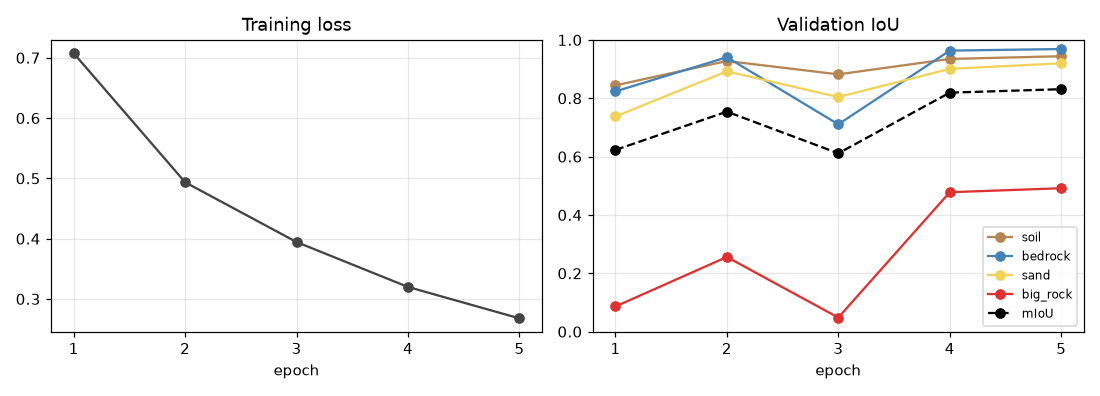
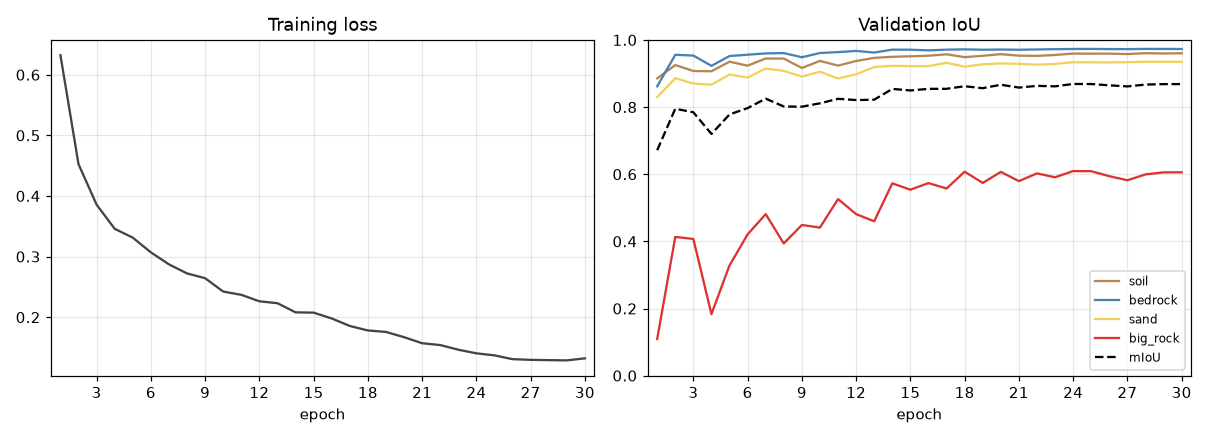
Loss ablation and 30-epoch final model: README results, curves, predictions.

diff --git a/scripts/plot_training.py b/scripts/plot_training.py
@@ -10,6 +10,7 @@ import matplotlib
 
 matplotlib.use("Agg")  # draw to a file, no window needed
 import matplotlib.pyplot as plt
+from matplotlib.ticker import MaxNLocator
 
 # same colours as visualize.py
 COLORS = {"soil": "#b58654", "bedrock": "#4682b4", "sand": "#f0d25a", "big_rock": "#dc3232"}
@@ -25,7 +26,7 @@ def main():
         rows = list(csv.DictReader(f))
     epochs = [int(r["epoch"]) for r in rows]
 
-    fig, (ax_loss, ax_iou) = plt.subplots(1, 2, figsize=(10, 3.6))
+    fig, (ax_loss, ax_iou) = plt.subplots(1, 2, figsize=(11, 4))
 
     # left: the training loss should go down
     ax_loss.plot(epochs, [float(r["train_loss"]) for r in rows], marker="o", color="#444444")
@@ -39,11 +40,16 @@ def main():
     ax_iou.set_title("Validation IoU")
     ax_iou.set_xlabel("epoch")
     ax_iou.set_ylim(0, 1)
-    ax_iou.legend(loc="lower right", fontsize=8)
 
+    # markers only on short runs; at most ~10 integer ticks so long runs stay readable
+    marker_size = 4 if len(epochs) <= 10 else 0
     for ax in (ax_loss, ax_iou):
-        ax.set_xticks(epochs)
+        for line in ax.get_lines():
+            line.set_markersize(marker_size)
+        ax.xaxis.set_major_locator(MaxNLocator(nbins=10, integer=True))
+        ax.set_xlim(min(epochs) - 0.5, max(epochs) + 0.5)
         ax.grid(alpha=0.3)
+    ax_iou.legend(loc="lower right", fontsize=8)  # after the marker change, so it matches the lines
 
     out = Path(args.out)
     out.parent.mkdir(parents=True, exist_ok=True)

diff --git a/visualize.py b/visualize.py
@@ -2,6 +2,7 @@
 
 Check data/augmentations:  uv run python visualize.py --split train
 Check predictions:         uv run python visualize.py --split val --run outputs/quick
+Chosen images:             uv run python visualize.py --split val --run outputs/quick --names A.JPG B.JPG
 """
 import argparse
 import random
@@ -39,12 +40,16 @@ def main():
     ap.add_argument("--n", type=int, default=6, help="number of images")
     ap.add_argument("--seed", type=int, default=0)
     ap.add_argument("--out", default=None)
+    ap.add_argument("--names", nargs="+", default=None, help="show these images instead of a random sample")
     args = ap.parse_args()
 
     cfg = yaml.safe_load(open(args.config))
     d, size = cfg["data"], cfg["img_size"]
     names = read_names(Path(d["splits_dir"]) / f"{args.split}.txt")
-    names = random.Random(args.seed).sample(names, args.n)
+    if args.names:
+        names, args.n = args.names, len(args.names)
+    else:
+        names = random.Random(args.seed).sample(names, args.n)
     # the train split uses the random augmentations: we see exactly what the model sees
     tf = get_train_transforms(size) if args.split == "train" else get_val_transforms(size)
     ds = MarsDataset(d["train_img_dir"], d["train_mask_dir"], names, tf, d["mask_suffix"])

diff --git a/README.md b/README.md
@@ -2,7 +2,6 @@
 
 A U-Net that labels every pixel of a Mars rover photo as **soil**, **bedrock**, **sand** or **big rock**.
 Trained on Curiosity NavCam images from the [AI4Mars](https://www.zooniverse.org/projects/hiro-ono/ai4mars) dataset, in PyTorch.
-It is a personal learning project: a small, readable baseline, trained for only 5 epochs (~1 hour on a MacBook).
 
 ![Predictions on validation images](docs/predictions.png)
 
@@ -10,29 +9,60 @@ It is a personal learning project: a small, readable baseline, trained for only 
 
 ## Results
 
-Evaluated on the **322 expert-labelled test images**, never used for training or for choosing the checkpoint,
-at full 1024×1024 resolution. `min1/min2/min3` = how many of the 3 experts must agree on a pixel to keep it
-(`min3` keeps only the unambiguous, easier pixels).
+Evaluated once on the **322 expert-labelled test images** at full 1024×1024 resolution. `min1/min2/min3` = how many of the 3 experts must agree on a pixel to keep it
+(`min3` keeps only the unambiguous pixels).
 
 | Test labels | mIoU | soil | bedrock | sand | big rock |
 |-------------|------|------|---------|------|----------|
-| min1        | 0.660 | 0.910 | 0.791 | 0.835 | 0.104 |
-| min2        | 0.704 | 0.957 | 0.865 | 0.906 | 0.088 |
-| min3        | 0.781 | 0.979 | 0.915 | 0.942 | 0.290 |
+| min1        | 0.670 | 0.915 | 0.805 | 0.851 | 0.109 |
+| min2        | 0.717 | 0.960 | 0.877 | 0.922 | 0.110 |
+| min3        | 0.810 | 0.981 | 0.929 | 0.958 | 0.372 |
 
-IoU = intersection over union, per class (1.0 is perfect). `evaluate_test.py` also writes the full confusion matrices to `outputs/<run>/test_report.txt`.
+Final model: 30 epochs, cross-entropy + Dice, big-rock class weight 1.0. The first baseline (5 epochs, big-rock weight 2.6)
+scored 0.660 / 0.704 / 0.781 mIoU and 0.104 / 0.088 / 0.290 on big rock.
+IoU = intersection over union, per class (1.0 is perfect). `evaluate_test.py` writes precision, recall and confusion matrices to `outputs/<run>/test_report.txt`.
 
 ![Training curves](docs/training_curve.png)
 
-The loss is still falling and the validation mIoU still rising at epoch 5 (0.83), so the model is under-trained: more epochs should help.
+Validation mIoU plateaus at about 0.87 from epoch ~20: more epochs would not help.
+
+## What I tried and why
+
+**Problem.** The baseline was good on soil, bedrock and sand but weak on big rock. Precision and recall showed why:
+it found most real rocks (recall 68–100%) but labelled 2–3% of bedrock as big rock. Bedrock is half the labelled pixels
+and big rock about 0.1% of the test pixels, so these false positives dominate the big-rock IoU.
+
+**Hypotheses.** (A) The big-rock class weight (2.6) pushes the model to call ambiguous pixels "rock": with weighted
+cross-entropy a pixel is labelled big rock when its rock probability exceeds w_bedrock / (w_bedrock + w_rock) ≈ 11%.
+(B) The loss does not penalise false positives enough.
+
+**Ablation.** Five 5-epoch runs on an RTX 4090, changing one thing at a time, compared on the **validation** set (single seed):
+
+| Run | Change | val mIoU | big rock IoU | precision | recall |
+|-----|--------|----------|--------------|-----------|--------|
+| `ce_dice` | baseline | 0.834 | 0.502 | 0.594 | 0.765 |
+| `ce_dice_rock1` | big-rock weight 2.6 → 1.0 (A) | **0.838** | **0.517** | **0.658** | 0.707 |
+| `ce_tversky` | Dice → Tversky, α=0.7 on false positives (B) | 0.832 | 0.495 | 0.586 | 0.761 |
+| `ce_lovasz` | Dice → Lovász (optimises IoU directly) | 0.828 | 0.480 | 0.577 | 0.741 |
+| `focal_dice` | cross-entropy → focal loss | 0.812 | 0.433 | 0.496 | 0.771 |
+
+The mIoU gaps are small (single seed), but the lower weight moved precision up and recall down exactly as (A) predicts,
+with no class getting worse. Changing the loss did not help: the cause was the weight, not the loss. That setting was trained for 30 epochs.
+
+**Outcome on the test set.** All classes improved. On big rock, false positives on bedrock fell from 2.9% to 2.1% (min1)
+and IoU on unambiguous rocks (min3) rose from 0.29 to 0.37, with 99.7% recall. On min1 the more cautious model misses
+ambiguous rocks (recall 68% → 51%), so the IoU stays about the same. The validation gain only partly transfers, likely
+because crowd-sourced (train) and expert (test) labels disagree on what counts as a big rock, and because big rock is
+about 6× rarer in the test set.
 
 ## How it works
 
 - **Model:** U-Net with a ResNet34 encoder pre-trained on ImageNet ([segmentation-models-pytorch](https://github.com/qubvel-org/segmentation_models.pytorch)), input resized to 512×512.
-- **Loss:** class-weighted cross-entropy + 0.5 × Dice. Unlabelled pixels (value 255) are ignored.
-- **Optimiser:** AdamW, learning rate 3e-4 with cosine decay, batch size 8.
+- **Loss:** class-weighted cross-entropy + 0.5 × Dice; unlabelled pixels (value 255) are ignored. Other combinations (`ce_tversky`, `ce_lovasz`, `focal_dice`, ...) are selectable in `config.yaml`.
+- **Optimiser:** AdamW, learning rate 3e-4 with cosine decay, batch size 8. bf16 mixed precision on NVIDIA GPUs.
 - **Augmentation:** random crop, horizontal flip, brightness/contrast.
 - **Split:** images are grouped by acquisition time (blocks of 5 Martian days) before splitting into train/validation, because consecutive photos are nearly identical and a random split would leak.
+- **Method:** all choices made on validation; the test set is used once, on the final model.
 
 ## Data
 
@@ -54,35 +84,44 @@ uv sync
 uv run python scripts/make_splits.py \
   --img-dir data/raw/ai4mars-dataset-merged-0.6/msl/ncam/images/edr \
   --mask-dir data/raw/ai4mars-dataset-merged-0.6/msl/ncam/labels/train
-uv run python train.py --run-name quick                    # settings in config.yaml
-uv run python evaluate_test.py --run outputs/quick         # expert test set
-uv run python visualize.py --split val --run outputs/quick # prediction grid
-uv run python scripts/plot_training.py --run outputs/quick # training curves
+uv run python train.py --run-name quick                      # settings in config.yaml
+uv run python evaluate_test.py --run outputs/quick           # expert test set
+uv run python visualize.py --split val --run outputs/quick   # prediction grid
+uv run python scripts/plot_training.py --run outputs/quick   # training curves
+```
+
+Change settings for one run with `--set`, e.g. the final model:
+
+```bash
+uv run python train.py --run-name long --set train.epochs=30 train.loss=ce_dice "train.class_weights=[0.369,0.317,0.7,1.0]"
 ```
 
 `train.py --smoke` runs a few batches only, to check the pipeline; `--resume outputs/quick` continues an interrupted run.
-The code uses an NVIDIA GPU, Apple GPU (MPS) or CPU, whichever is available.
+The code uses an NVIDIA GPU, Apple GPU (MPS) or CPU, whichever is available. 
 
 ## Project structure
 
 | File | Purpose |
 |------|---------|
-| `config.yaml` | all settings: paths, model, hyperparameters |
+| `config.yaml` | all settings: paths, model, loss, hyperparameters |
 | `scripts/make_splits.py` | time-grouped train/validation split |
 | `dataset.py`, `augmentation.py` | loading images + masks, augmentations |
-| `train.py` | training loop, checkpoints, logging |
-| `metrics.py` | confusion matrix, IoU, mIoU |
+| `train.py` | training loop, checkpoints, logging, `--set` overrides |
+| `losses.py` | configurable loss: cross-entropy / focal + Dice / Tversky / Lovász |
+| `metrics.py` | confusion matrix, IoU, precision, recall |
 | `evaluate_test.py`, `evaluate.py` | evaluation on the test set / on any folder |
 | `visualize.py`, `scripts/plot_training.py` | prediction grids and training curves |
 
 ## Limitations and next steps
 
-- **Big rock is weak** (IoU 0.1–0.3) because of false positives, not missed rocks: the model finds 68–100% of the real big-rock pixels, but also labels 2–3% of bedrock as big rock. Bedrock is about half of the labelled pixels and big rock under 1%, so these false positives outnumber the correct ones.
-- Only 5 epochs and no hyperparameter search. Next: a longer run, a lower big-rock class weight, and losses that penalise false positives more (e.g. Tversky, Lovász).
+- **Big rock is still weak on the test set** (IoU 0.11 on min1), for the reasons above.
+- Next: tune the big-rock decision threshold on validation (a bias on its logit, no retraining); train at full 1024 resolution, since small rocks lose detail at 512; repeat the ablation with more seeds.
 - Predictions on unlabelled areas (sky, rover) are meaningless, as the model never gets a training signal there.
 
 ## Learning Notes
+
 ![Encoder levels](docs/encoder_levels.png)
+
 ## Credits
 
 Dataset: **AI4Mars**, by NASA JPL and the Zooniverse community labelers. Check the dataset page for its license and citation terms.
